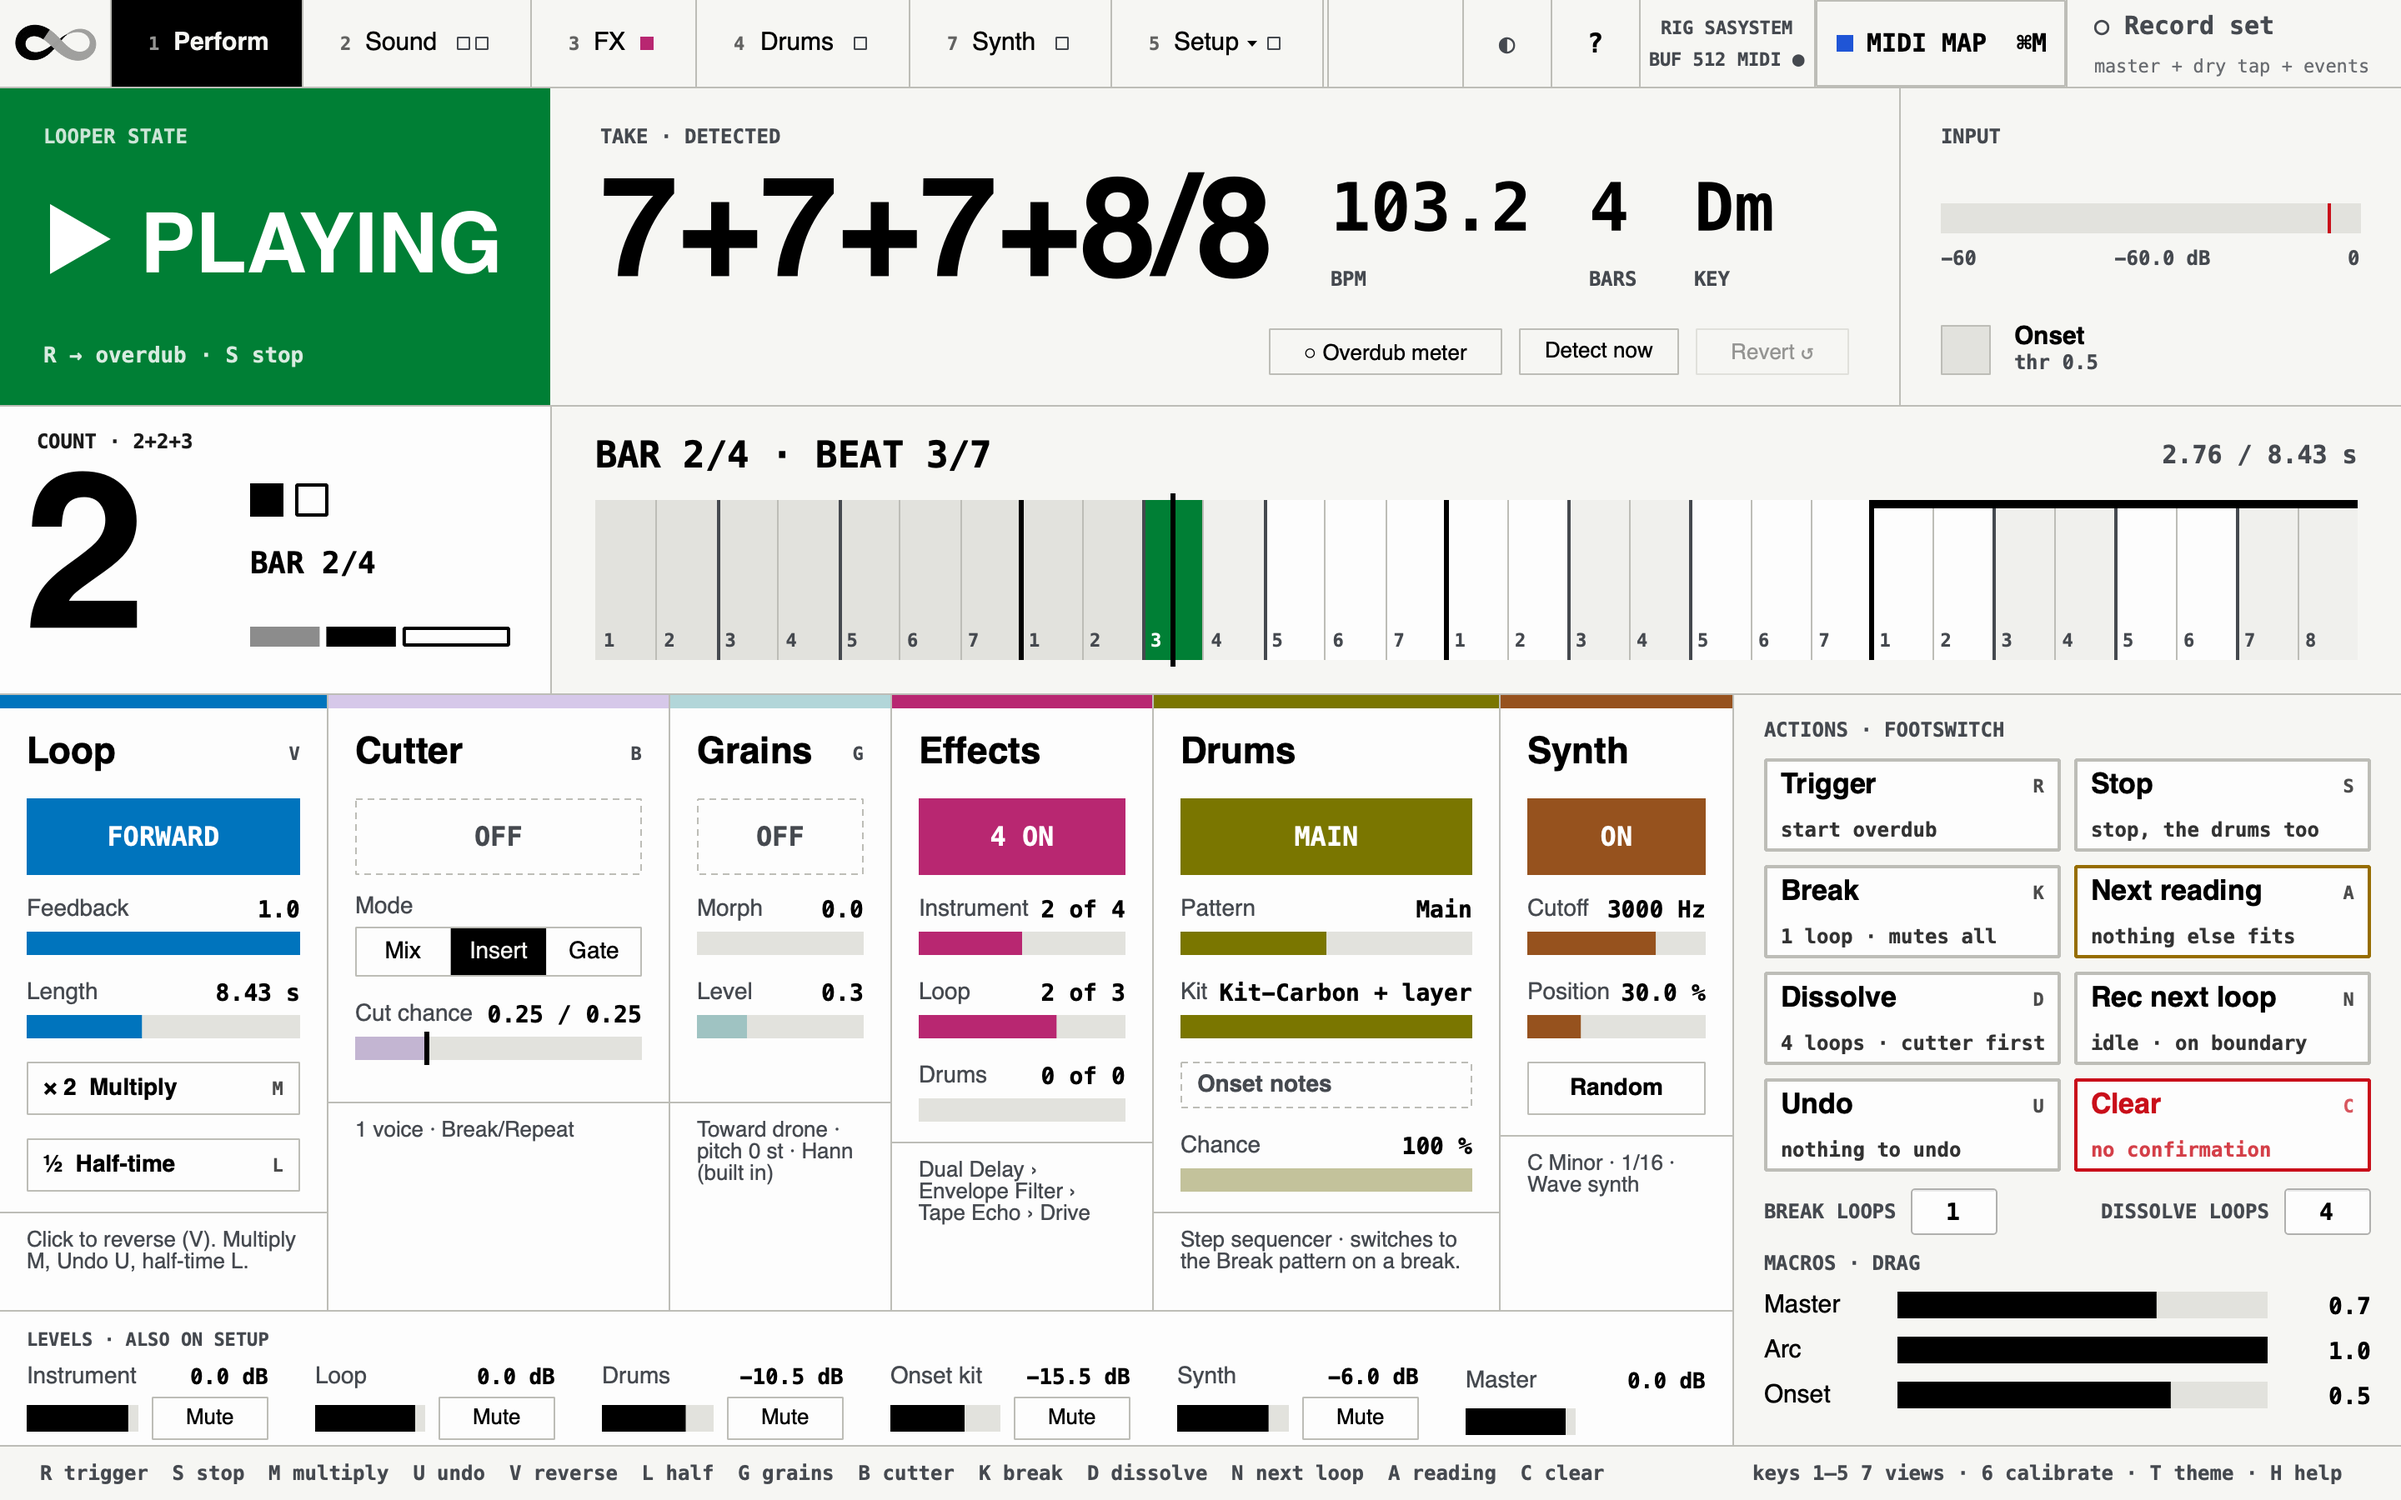
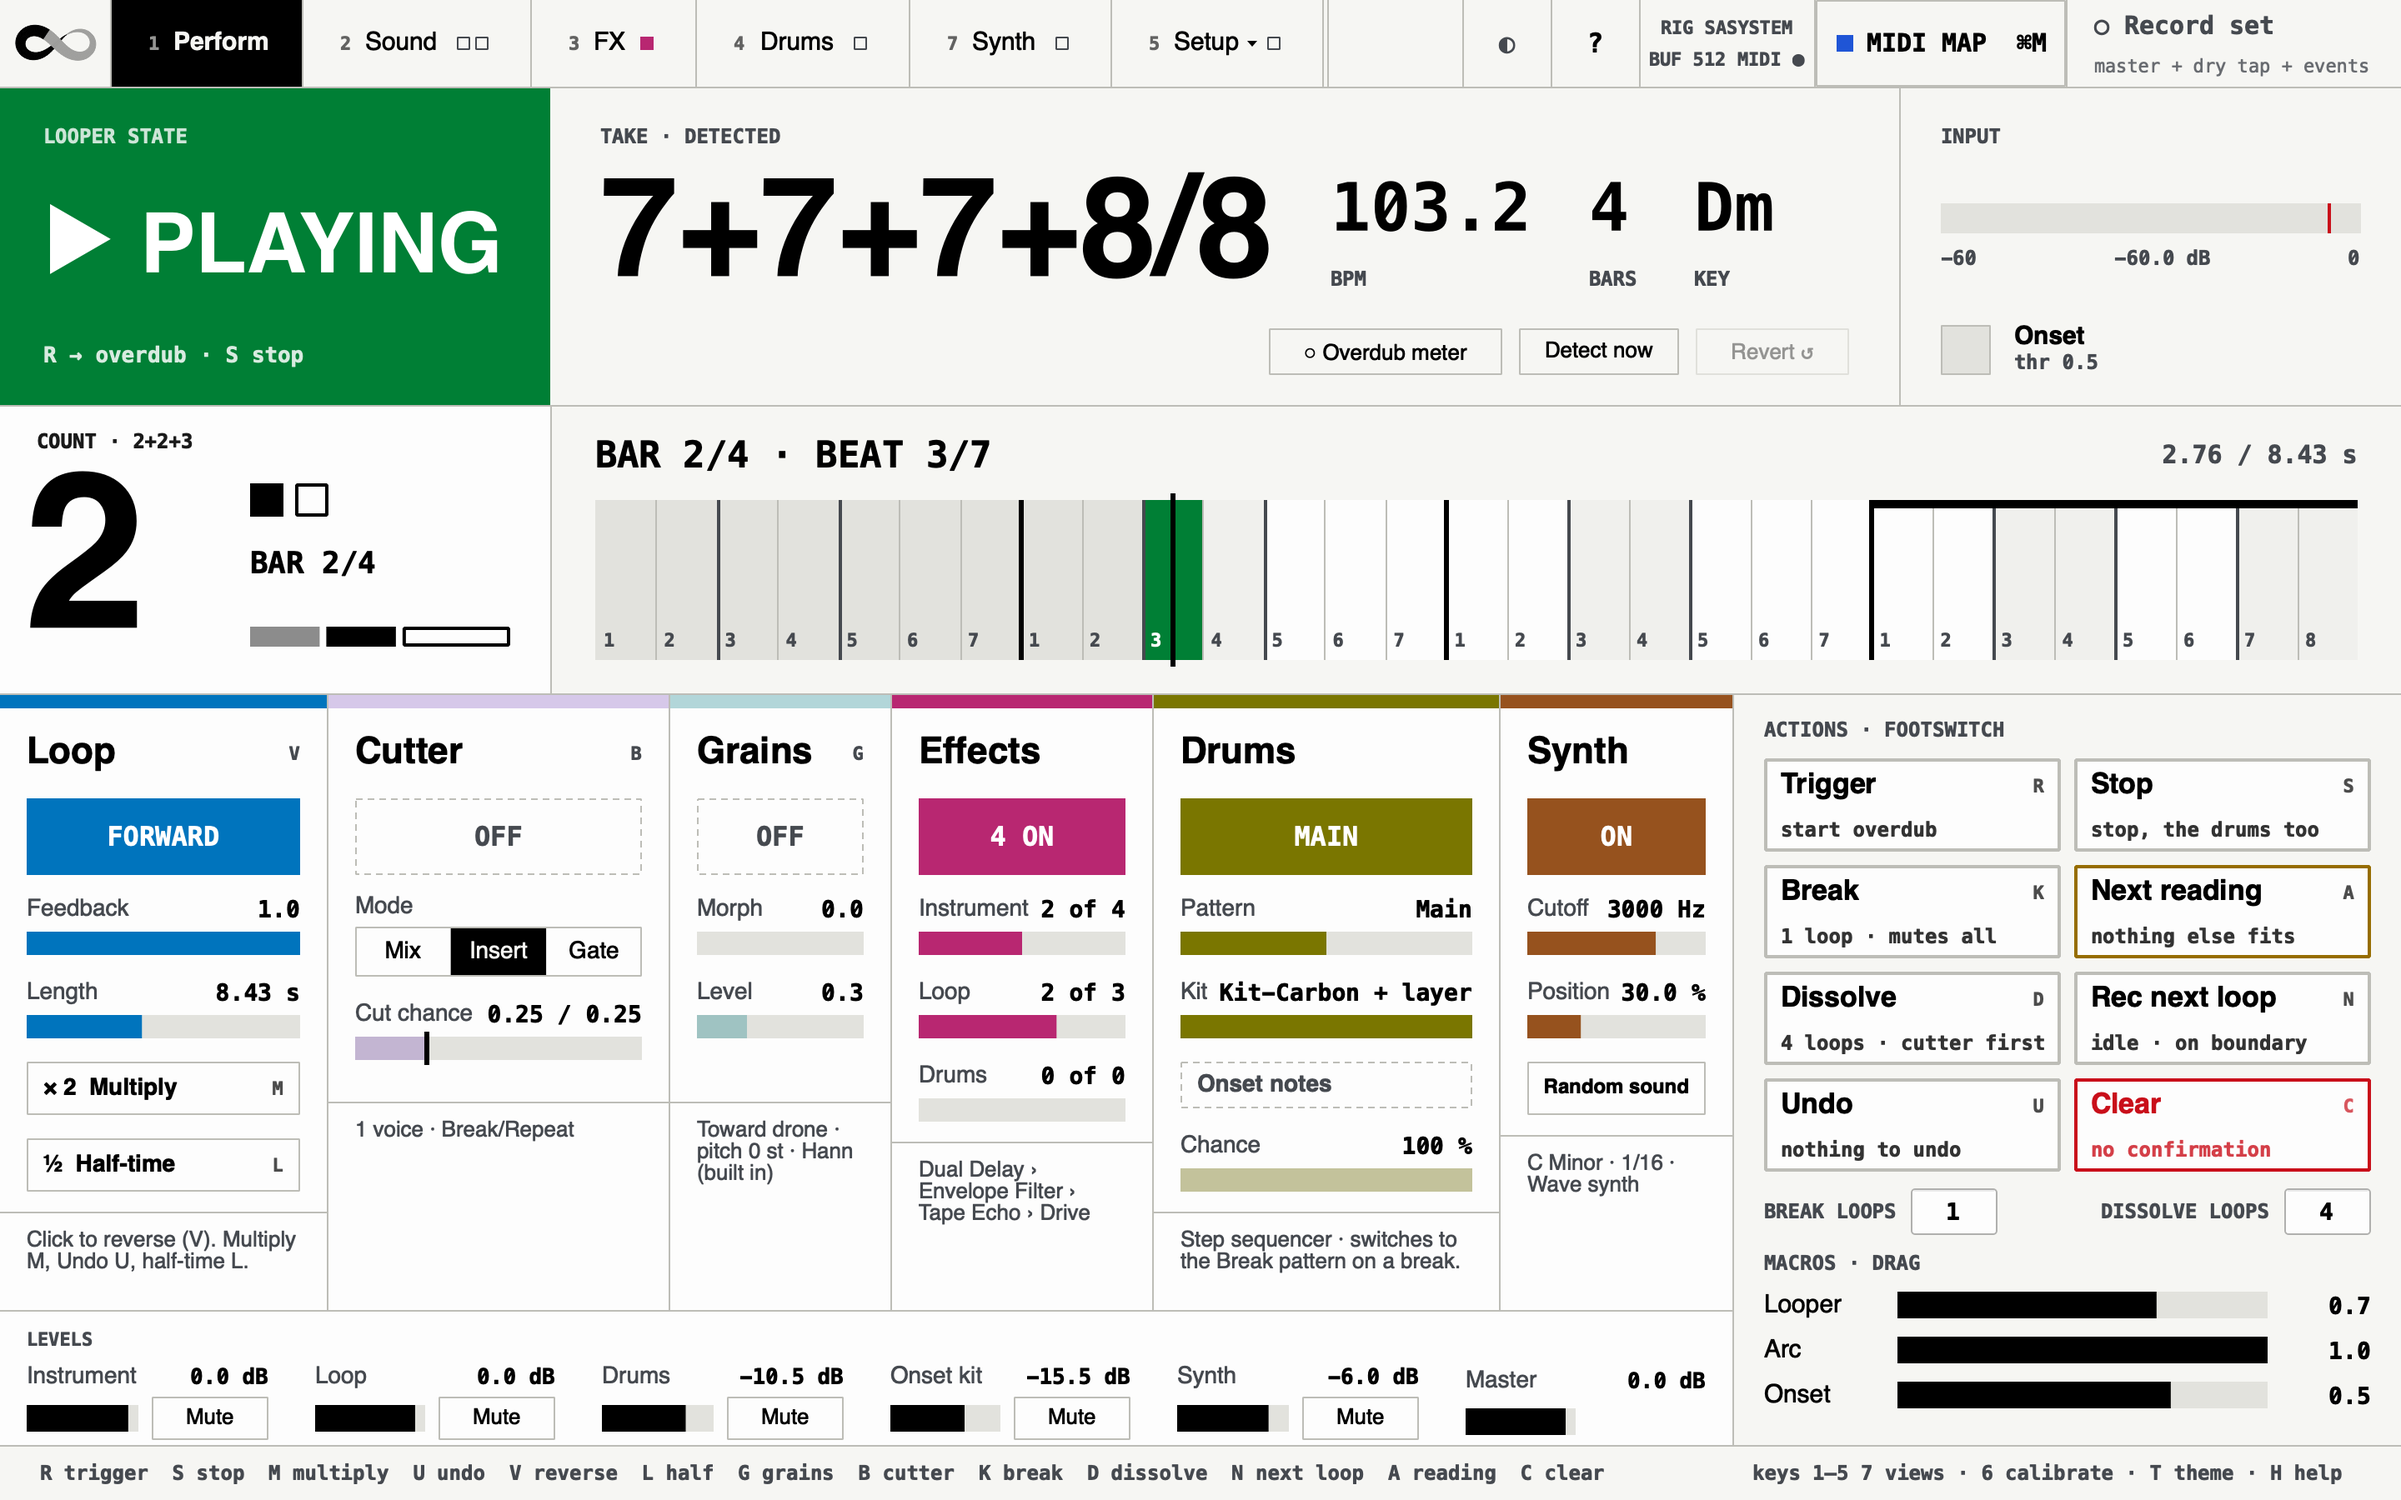
Each setting in one place: no copies of Perform's on Setup
The mixer's levels are Perform's alone: Setup's Rig page keeps New loop
under Drums and says where the levels went. The overdub meter's switch and
Detect now are the status band's, on every view, and the footer says what
a detection found instead of Setup's Analysis page. Perform's Master macro
is Looper (the mix's Master is the fader under Levels), and its Random is
Random sound, as on the Synth view.

diff --git a/docs/manual.md b/docs/manual.md
@@ -492,9 +492,9 @@ Sound, FX, Drums, Synth and Setup) plus Calibrate, and a footer.
 │[FWD] │ [ON]   │ [OFF]  │ [2 ON]  │[MAIN] │ [OFF] │ Trigger  Stop  Break        │  Perform
 │ ...  │ ...    │ ...    │ ...     │ ...   │ ...   │ Next reading  Dissolve      │
 │      │        │        │         │       │       │ Rec next loop  Undo  Clear  │
-│      │        │        │         │       │       │ MACROS · Master  Arc  Onset │
+│      │        │        │         │       │       │ MACROS · Looper  Arc  Onset │
 ├──────┴────────┴────────┴─────────┴───────┴───────┤                             │
-│ LEVELS · Instrument Instrument 2 Loop Drums Onset kit Synth Master (as Setup)  │
+│ LEVELS · Instrument Instrument 2 Loop Drums Onset kit Synth Master             │
 ├──────────────────────────────────────────────────┴─────────────────────────────┤
 │ keys 1–5 7 views · 6 calibrate · T theme · H help     Refused: nothing playing │  the footer
 └────────────────────────────────────────────────────────────────────────────────┘
@@ -530,12 +530,12 @@ Sound, FX, Drums, Synth and Setup) plus Calibrate, and a footer.
 
 | View | Key | What lives there |
 |---|---|---|
-| **Perform** | 1 | A column per layer — **Loop** (forward/reverse, feedback, length, ×2), **Cutter** (on/off, Mix/Insert/Gate, the arc-driven parameter with its tick), **Grains** (on/off, morph, level), **Effects**, **Drums** (on/off, and the onset notes' switch and Chance) and **Synth** (on/off, Cutoff, Position, Random) — then the **actions** (Trigger, Stop, Break, Next reading, Dissolve, Rec next loop, Undo, Clear, each with its key and footswitch), Break loops and Dissolve loops, and the **macros**: Master, Arc, Onset |
+| **Perform** | 1 | A column per layer — **Loop** (forward/reverse, feedback, length, ×2), **Cutter** (on/off, Mix/Insert/Gate, the arc-driven parameter with its tick), **Grains** (on/off, morph, level), **Effects**, **Drums** (on/off, and the onset notes' switch and Chance) and **Synth** (on/off, Cutoff, Position, Random sound) — then the **actions** (Trigger, Stop, Break, Next reading, Dissolve, Rec next loop, Undo, Clear, each with its key and footswitch), Break loops and Dissolve loops, the **macros** (Looper, Arc, Onset) and, under the layers, the **levels** of every strip |
 | **Sound** | 2 | The **Cutter** (preset, voices, procedure, cut synth, ratio, parameters, level, pan, voice effects) beside the **Grains** (preset, Blend, Pitch, Grain, Read position, grain window) |
 | **FX** | 3 | The **effects** chains (click a block to edit it, its square to switch it) and their sounds |
 | **Drums** | 4 | The **drums** (step sequencer, timing, kits, mix) |
 | **Synth** | 7 | The note sequencer, the Wave synth or a VST instrument, and their presets ([The synth](synth.md)) |
-| **Setup** | 5 | Three pages, picked from the menu its tab opens (key **5** again: the next page). **Rig**: profile, device, analysis input, input, Drums follow the loop, the timing bars, the levels and New loop, and **Calibrate** (where the wizard is) beside them · **Analysis**: monitor, counts, threshold, overdub detection, onset notes, pitch, fallback meter, bars by hand, export · **MIDI & AI**: the MIDI map, **MIDI in**, **AI apps** ([AI apps](ai.md)) and Record set's **Log every action** ([Every action](#every-action)) |
+| **Setup** | 5 | Three pages, picked from the menu its tab opens (key **5** again: the next page). **Rig**: profile, device, analysis input, input, Drums follow the loop, the timing bars and New loop, and **Calibrate** (where the wizard is) beside them · **Analysis**: monitor, counts, threshold, onset notes, pitch, fallback meter, bars by hand, export · **MIDI & AI**: the MIDI map, **MIDI in**, **AI apps** ([AI apps](ai.md)) and Record set's **Log every action** ([Every action](#every-action)) |
 | **Calibrate** | 6 | The wizard, step by step; Esc goes back to Setup's Rig page |
 
 ![The Sound view](images/sound.png)
@@ -574,7 +574,7 @@ at the same sizes.
 
 ![Setup's Rig page](images/setup-rig.png)
 
-*Fig: Setup's Rig page on the saSystem rig: the audio, the analysis input, the timing values and the levels, with Calibrate beside them.*
+*Fig: Setup's Rig page on the saSystem rig: the audio, the analysis input and the timing values, with Calibrate beside them.*
 
 The controls, by view:
 
@@ -612,9 +612,9 @@ The controls, by view:
   sits 30 dB or more below it: a tap that quiet still yields a few onsets at a
   low threshold, and the meter fitted to them is noise — fix the gain, not the
   threshold. See [docs/routing.md](routing.md).
-- **Master** *(Perform's macros)* — the looper's own level: the loop, the
+- **Looper** *(Perform's macros)* — the looper's own level: the loop, the
   cutter and the grains together, after their limiter (0–1, starts at 0.7).
-  The whole mix's last fader is **Master** under Levels.
+  The whole mix's last fader is **Master** under Levels, on Perform.
 - **Morph** *(Perform's Grains column)* — between frozen drone (0) and pulsed scan
   locked to the detected pulse (1). Mirrors the Grains' Morph on Sound (CC 118 in the
   keys-and-knobs map); moving either updates both. Sound holds the rest of the layer.
@@ -741,7 +741,7 @@ Setup's Analysis page (`scripts/gui-analysis.scd`).
 
 ![Setup's Analysis page](images/setup-analysis.png)
 
-*Fig: Setup's Analysis page: the onset threshold, overdub detection, the onset notes, the pitch range, the fallback meter, Bars by hand and the export.*
+*Fig: Setup's Analysis page: the onset threshold, the onset notes, the pitch range, the fallback meter, Bars by hand and the export.*
 
 On **Perform**:
 
@@ -813,8 +813,7 @@ shares.
 
 For loops that open atmospheric. Take one has no attacks, so no meter is found
 and the drums never start — correct, there is no beat to follow. Turn on
-**Overdub meter** in the take line of Perform's status band (or **Overdub meter
-detection** on Setup's Analysis page: the same switch), overdub a rhythmic
+**Overdub meter** in the take line of the status band, overdub a rhythmic
 pattern, and the meter is derived from *that* instead, then the drums start.
 
 - **Runs on `endOverdub`**, and only while the loop still has **no valid meter**
@@ -825,7 +824,8 @@ pattern, and the meter is derived from *that* instead, then the drums start.
 - **Detect now**, beside it, forces a re-analysis of the last overdub's onsets
   past that gate. The quality guards below still apply; when they find no
   beat, the footer says why (`Refused: no beat in the last overdub: 5 onsets,
-  8 needed`), and Setup's Analysis page shows what a detection found.
+  8 needed`), and when it finds one, what it found (`Meter from the overdub:
+  7/8 @ 103.2 BPM · 4 bars · 22 onsets`).
 - Onsets arrive already in **loop coordinates**: the engine publishes its read
   position on a control bus and the analyser latches it at each onset, so
   several loop passes fold onto one grid with no clock arithmetic — and playing
@@ -1569,7 +1569,7 @@ megalooper/
     gui-synth.scd        -- Synth: the note sequencer and the Wave synth
     gui-analysis.scd     -- Analysis (Setup): monitor feed, counts, onset notes, export
     gui-rig.scd          -- Rig (Setup): routing, timing, the MIDI map
-    gui-sa.scd           -- Rig (Setup): the mixer's levels and New loop
+    gui-sa.scd           -- the mixer's levels (Perform) and New loop (Setup › Rig)
     gui-midimap.scd      -- the MIDI map section: inputs, maps, bindings, learning
     gui-mapmode.scd      -- MIDI Map mode: the MIDI MAP button, masks, the map bar
     gui-calibrate.scd    -- the Calibrate wizard, and its summary on Setup

diff --git a/docs/routing.md b/docs/routing.md
@@ -64,9 +64,9 @@ chain. What you hear and what gets looped do not change.
 **Instrument 2: Input 2** says a second instrument, a bass, say, is on the
 input device's input 2. megalooper plays it through a chain of its own (the
 **INSTRUMENT 2** row on the FX view) onto a strip of its own, **Instrument 2**
-under Levels on Setup's Rig page and on Perform, and **Record set** writes it
-as a stem of its own. The looper does not record it. **None** is the start: on
-a laptop input 2 is the microphone. Instrument 2's input is never the
+under Levels on Perform, and **Record set** writes it as a stem of its own.
+The looper does not record it. **None** is the start: on a laptop input 2 is
+the microphone. Instrument 2's input is never the
 instrument's: that would play the instrument twice, and megalooper starts
 without instrument 2 then, saying why.
 

diff --git a/docs/drums.md b/docs/drums.md
@@ -10,8 +10,8 @@ megalooper has two drum parts, on the **Drums** view (key **4**):
 Each part plays a **kit**: a set of samples on pads.
 
 The steps start with every new loop you record. To have them wait instead,
-set **New loop** to **Drums off** on the Setup view's Rig page, under the
-levels. A new loop then keeps the drums in time but silent, until you switch
+set **New loop** to **Drums off** on the Setup view's Rig page, under
+**Drums**. A new loop then keeps the drums in time but silent, until you switch
 them on: the switch on the Drums view, or a footswitch mapped to it. Overdubs leave
 them as they are. megalooper keeps the choice for the next start. Whether
 they also stop with the loop is **Drums follow the loop**, on the same page.
